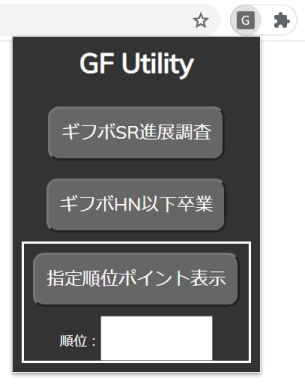
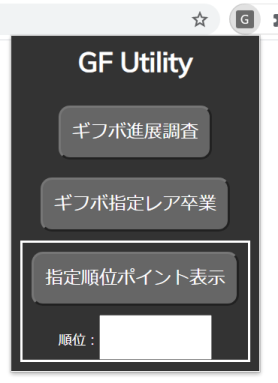
Added the menu information.

diff --git a/howtouse.md b/howtouse.md
@@ -3,8 +3,9 @@
  * 拡張機能の「G」をクリックすると、メニューが出てきます。  
  ![tool_menu](./images/tool_menu.png "tool_menu")    
  本ツールでは、以下の機能を提供します。それぞれ、説明を記載します。  
- * ギフボの「SR,SSR」と手持ちのガールを比較して「進展できるもの」、「EXまで進んでるもの(卒業しても悔いはないもの)」を調べます
- * ギフボの「特別進展ガール以外」のNとHNを卒業させます
+ * ギフボの「HR,SR,SSR」と手持ちのガールを比較して「進展できるもの」、「EXまで進んでるもの(卒業しても悔いはないもの)」を調べます
+ * ギフボの「特別進展ガール以外」のN,HN,Rを卒業させます
+ 	* ギフボ項目のレアリティは[オプション項目](option.md)で変更が可能です  
  * 現在進行中のイベントで、指定順位の獲得ポイントを表示します
 
 ## 最初に
@@ -13,7 +14,7 @@
  * シークレットモードでは、そのモードでログインしている垢に対して処理が有効になります。
  ![thumbnail](./images/thumbnail.png "thumbnail")
 
-## SR/SSR進展調査
+## カード進展調査
 **作った理由：SRバッジが欲しくて重複カード一覧が取得したかった**  
 
 表示結果  
@@ -24,18 +25,25 @@
 
 ### 使用方法
 
-
  1. 「ギフボSR進展調査」をクリックします。
-	* そのあと、2回、アラートが表示されます  
+ 1. 直後に、以下のようにレアリティチェックの画面が出ます
+ 	* ダイアログの内容が設定と一致しているか確認してください。間違っていたら、キャンセルしてください
+ 	* 表示されない場合、呼び出し失敗していますので、再度メニューを実行してください
+  ![ALERT](./images/sr_preCheck.png "ALERT")  
+ 1. そのあと、2回、アラートが表示されます  
   ![ALERT01](./images/alert01.png "ALERT01")  
   ![ALERT02](./images/alert02.png "ALERT02")  
  1. 2回終わると、画面表示が代わります。
   出てきた内容をもとに、ギフトボックスを検索して進展や卒業などにご利用ください
 
-## N/HN卒業
+## ギフボ指定レア卒業
 **作った理由：手作業が面倒くさかった**  
   
- 1. 「ギフボHN以下卒業」をクリックしてください。
+ 1. 「ギフボ指定レア卒業」をクリックしてください。
+ 1. 直後に、以下のようにレアリティチェックの画面が出ます
+ 	* ダイアログの内容が設定と一致しているか確認してください。間違っていたら、キャンセルしてください
+ 	* 表示されない場合、呼び出し失敗していますので、再度メニューを実行してください
+  ![ALERT](./images/grad_preCheck.png "ALERT")  
  1.  ギフボから特別指導ガールを除くN/HNが卒業されます
 	* 手元のひ弱なPCでも、1秒で20人程度卒業できます
 

diff --git a/warning.md b/warning.md
@@ -2,7 +2,7 @@
 
  本ツールはChromeブラウザの拡張機能として動作します  
  情報取得は、文字情報のみで、画像などの取得は行いません。転送量は少なく、高速に処理します。  
- 機能によっては、かなりの回数のサーバアクセスを行いますので、使用については、**「At your own risk」**としてください。  
+ 機能によっては、かなりの回数のサーバアクセスを行いますので、**「At your own risk」**で使用してください。  
 
  そのため、CHROME拡張機能としてのストア登録は予定していません  
  CHROMEへは、デベロッパー機能から、コードレベルのインストールをお願いします  
@@ -18,11 +18,12 @@
 全て、サーバからJSONを取得しています  
 ※1ページ最大10人です  
 
- 1. SR/SSR の進展チェック
-	- ギフボ内「SR/SSR(特別指導ガール以外)」で絞り込んだ際のページ数
-	- ガールズ内「SR/SSR」で絞り込んだ際のページ数
- 1. N/HN卒業
-	- ギフボ内「N/HN(特別指導ガール以外)」で絞り込んだ際のページ数 * 3
+ 1. 進展チェック
+	- **※HRはかなりの数が想像されます。気を付けて実施してください**
+	- ギフボ内「HR/SR/SSR(特別指導ガール以外)」で絞り込んだ際のページ数
+	- ガールズ内「HR/SR/SSR/UR」で絞り込んだ際のページ数
+ 1. 自動卒業
+	- ギフボ内「N/HN/R(特別指導ガール以外)」で絞り込んだ際のページ数 * 3
 		- 手続き上1ページ(最大10人)毎に「一覧取得」「卒業確認」「卒業実施」の3回アクセスするため
  1. 開催中イベント指定順位表示
 	- 1更新ごとに1回

diff --git a/option.md b/option.md
@@ -1,0 +1,30 @@
+# オプション項目
+
+ギフボに関する項目は、レアリティを変更できます。  
+
+## オプション表示方法
+
+ ![option_menu](./images/option_menu.png "option_menu")    
+
+ * 「G」の上で右クリック、若しくは画像のように、右の三点ボタンから「オプション」をクリックしてください  
+ * ブラウザ上にオプション画面が表示されます
+
+## オプション内容
+
+ ![option](./images/option.png "option")    
+
+オプションは以下の通りです  
+
+ 1. 進展チェック
+	- HR/SR/SSRの選択ができます。デフォルトは「SR/SSR」です
+	- ギフボを検索する項目にチェックを付けます。ガールは、その進展可能な対象を検索します
+		- HRをチェックすると、ギフボ内はHR、ガールからは進展可能なHR/SRを対象に処理を行います
+ 1. 自動卒業
+	- N/HN/Rの選択ができます。デフォルトはN/HNです
+		- どれを選択しても、特別指導ガールは対象外です
+
+## オプションの保存
+
+ * オプションの項目は保存されます。
+ 	* シークレットモードの場合、ブラウザを閉じると保存されます
+ 	* 通常のブラウザの場合、拡張機能から削除すると保存情報も消えます

diff --git a/README.md b/README.md
@@ -4,8 +4,9 @@
 # 機能
  
  「gf-util」は、以下の機能があります。
- * ギフボの「SR,SSR」と手持ちのガールを比較して「進展できるもの」、「EXまで進んでるもの(卒業しても悔いはないもの)」を調べます
- * ギフボの「特別進展ガール以外」のNとHNを卒業させます
+ * ギフボの「HR,SR,SSR」と手持ちのガールを比較して「進展できるもの」、「EXまで進んでるもの(卒業しても悔いはないもの)」を調べます
+ * ギフボの「特別進展ガール以外」のN,HN,Rを卒業させます
+	* ギフボ確認、卒業は、レアリティをオプションから指定できます
  * 現在進行中のイベントで、指定順位の獲得ポイントを表示します
 
 # Requirement
